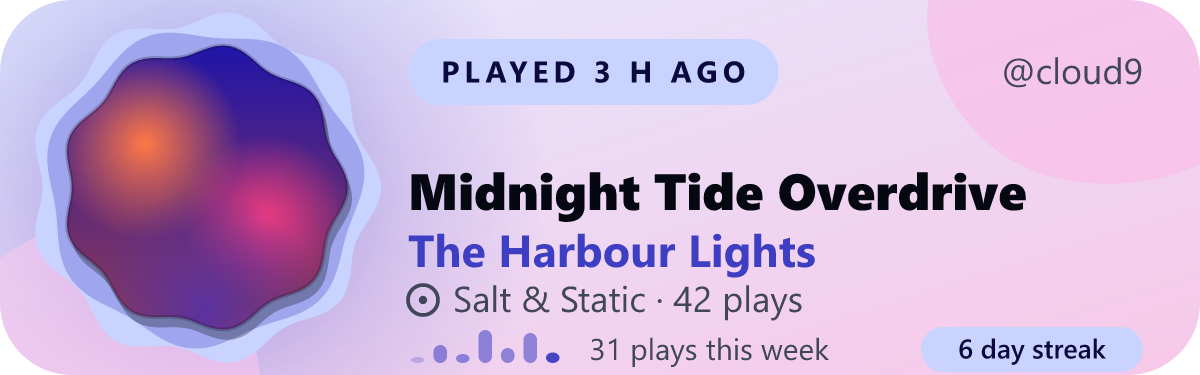
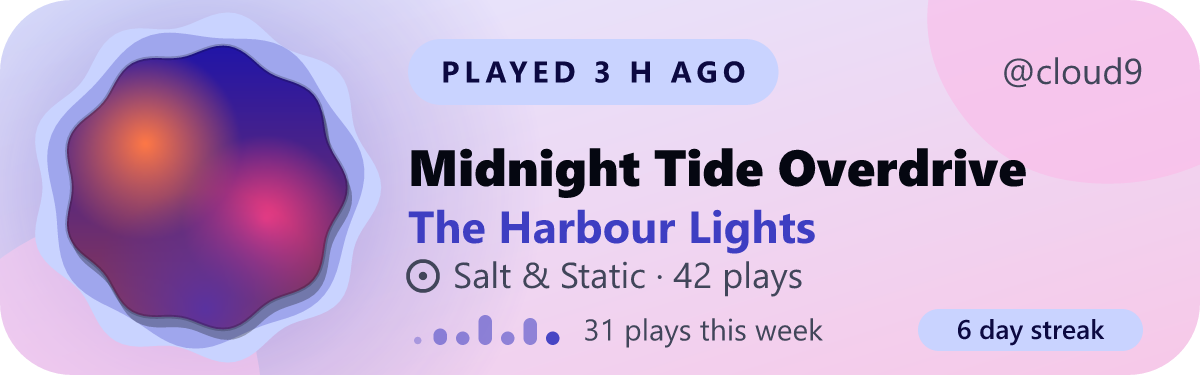
Give the week row on the idle card real margins and one centre line, and drop it when a two-line title leaves no room

Changed region(s): [[0.3392, 0.3813, 0.8633, 0.968], [0.74, 0.8213, 0.9558, 0.9973]]

diff --git a/src/render/expressive.ts b/src/render/expressive.ts
@@ -15,36 +15,43 @@ const WAVELENGTH = 44;
 
 const WEEK_BAR_W = 9;
 const WEEK_BAR_STEP = 15;
-const WEEK_BAR_MAX = 22;
-const WEEK_BASE_Y = 242;
+const WEEK_BAR_MAX = 20;
+/** The week row's centre line: the bars, the total and the chip are all centred on it. */
+const WEEK_CY = 220;
 
 /**
  * The idle card's last row: seven small bars (plays per day, today on the right and brightest), the week's total, and a chip
- * with the streak when it is two days or more. Sits below the album line, in the space the wave uses while playing.
+ * with the streak when it is two days or more. Sits below the album line, where the wave is while playing, and keeps the
+ * same margin to the card's edge as the top row.
  */
 function weekRow(week: NonNullable<CardData["week"]>): string {
   const peak = Math.max(...week.bars, 1);
+  const base = WEEK_CY + WEEK_BAR_MAX / 2;
   const bars = week.bars
     .map((n, i) => {
-      const h = n === 0 ? 4 : Math.max(6, Math.round((n / peak) * WEEK_BAR_MAX));
+      const x = COL_X + 2 + i * WEEK_BAR_STEP;
       const last = i === week.bars.length - 1;
-      return `<rect x="${COL_X + 2 + i * WEEK_BAR_STEP}" y="${WEEK_BASE_Y - h}" width="${WEEK_BAR_W}" height="${h}" rx="${WEEK_BAR_W / 2}" class="${fill("primary")}" opacity="${last ? ".95" : n === 0 ? ".25" : ".55"}"/>`;
+      // A day with no plays is a small dot; a day with plays is a bar, never shorter than a stub.
+      if (n === 0) return `<circle cx="${x + WEEK_BAR_W / 2}" cy="${base - 3}" r="2.5" class="${fill("primary")}" opacity=".35"/>`;
+      const h = Math.max(WEEK_BAR_W, Math.round((n / peak) * WEEK_BAR_MAX));
+      return `<rect x="${x}" y="${base - h}" width="${WEEK_BAR_W}" height="${h}" rx="${WEEK_BAR_W / 2}" class="${fill("primary")}" opacity="${last ? ".95" : ".55"}"/>`;
     })
     .join("");
-  const barsEnd = COL_X + 2 + 7 * WEEK_BAR_STEP;
+  const barsEnd = COL_X + 2 + 6 * WEEK_BAR_STEP + WEEK_BAR_W;
   const right = COL_X + COL_W;
   const text = `${week.total.toLocaleString("en-US")} ${week.total === 1 ? "play" : "plays"} this week`;
-  const textX = barsEnd + 14;
+  const textX = barsEnd + 16;
   // The streak chip is only drawn when the total fits beside it; a long total keeps the whole row instead.
   const streak = week.streak >= 2 ? `${week.streak} day streak` : "";
-  const chipW = streak ? Math.round(textEm(streak) * 18) + 30 : 0;
-  const chipFits = chipW > 0 && fit(text, right - textX - chipW - 14, 20) === text;
-  const label = fit(text, right - textX - (chipFits ? chipW + 14 : 0), 20);
+  const CHIP_H = 28;
+  const chipW = streak ? Math.round(textEm(streak) * 18) + 32 : 0;
+  const chipFits = chipW > 0 && fit(text, right - textX - chipW - 16, 20) === text;
+  const label = fit(text, right - textX - (chipFits ? chipW + 16 : 0), 20);
   const chip = chipFits
-    ? `<rect x="${right - chipW}" y="${WEEK_BASE_Y - 24}" width="${chipW}" height="30" rx="15" class="${fill("primaryContainer")}"/>` +
-      `<text x="${right - chipW / 2}" y="${WEEK_BASE_Y - 3}" text-anchor="middle" font-family="${SANS}" font-size="18" font-weight="600" class="${fill("onPrimaryContainer")}">${esc(streak)}</text>`
+    ? `<rect x="${right - chipW}" y="${WEEK_CY - CHIP_H / 2}" width="${chipW}" height="${CHIP_H}" rx="${CHIP_H / 2}" class="${fill("primaryContainer")}"/>` +
+      `<text x="${right - chipW / 2}" y="${WEEK_CY + 6}" text-anchor="middle" font-family="${SANS}" font-size="18" font-weight="600" class="${fill("onPrimaryContainer")}">${esc(streak)}</text>`
     : "";
-  return bars + `<text x="${textX}" y="${WEEK_BASE_Y - 2}" font-family="${SANS}" font-size="20" class="${fill("onVariant")}">${esc(label)}</text>` + chip;
+  return bars + `<text x="${textX}" y="${WEEK_CY + 7}" font-family="${SANS}" font-size="20" class="${fill("onVariant")}">${esc(label)}</text>` + chip;
 }
 
 /** Material 3 Expressive-style card: cookie-shaped cover, tonal blobs and a wavy line that flattens when idle. */
@@ -79,7 +86,9 @@ export function renderExpressive(d: CardData, palette: Palette, opts: CardOption
   const hasMeta = copy.meta !== "";
   // With no album line, centre the stack between the pill and the wave. With no wave (nothing playing), the stack
   // moves down a little so the space below it matches the space above the pill.
-  const drop = live ? 0 : 8;
+  // The week row needs the room a two-line title takes, so a long title keeps the card as it was.
+  const hasWeek = d.kind === "idle" && !!d.week && d.week.total > 0 && !two;
+  const drop = live ? 0 : hasWeek ? -8 : 8;
   const lift = (hasMeta ? 0 : 14) + drop;
   const titleYs = (two ? [104, 140] : [132]).map((y) => y + lift);
   const subY = (two ? 173 : 170) + lift;
@@ -111,7 +120,7 @@ export function renderExpressive(d: CardData, palette: Palette, opts: CardOption
   const handleRoom = COL_W - pillW - 20;
   const HANDLE_PX = [24, 22, 20].find((px) => textEm(handleText) * px <= handleRoom) ?? 0;
   const handle = handleText && HANDLE_PX ? esc(handleText) : "";
-  const week = d.kind === "idle" && d.week && d.week.total > 0 ? weekRow(d.week) : "";
+  const week = hasWeek && d.week ? weekRow(d.week) : "";
   const wave = liveWave(d, opts, { x0: COL_X, x1: COL_X + COL_W, y: 228, stroke: 7, amp: 6, wavelength: WAVELENGTH });
 
   const body =

diff --git a/test/render.test.ts b/test/render.test.ts
@@ -222,7 +222,8 @@ describe("the week on the idle card", () => {
     const { week: _demo, ...data } = demo;
     return renderCard({ ...data, ...(w ? { week: w } : {}) }, seed, { theme, mode: "dark", still: true });
   };
-  const bars = (svg: string) => svg.match(/<rect x="\d+" y="\d+" width="9" height="\d+"/g) ?? [];
+  // A day with plays is a bar (a 9 wide rect), a day with none is a small dot (a circle of radius 2.5).
+  const bars = (svg: string) => svg.match(/<rect x="\d+" y="\d+" width="9" height="\d+"|<circle cx="[\d.]+" cy="[\d.]+" r="2\.5"/g) ?? [];
 
   it("draws seven bars, the total and the streak under the album line", () => {
     const svg = card("idle", week());
@@ -231,13 +232,34 @@ describe("the week on the idle card", () => {
     expect(svg).toContain("6 day streak");
   });
 
-  it("makes the busiest day the tallest and a day with no plays a small dot, with today brightest", () => {
-    const heights = bars(card("idle", week())).map((b) => Number(b.match(/height="(\d+)"/)![1]));
-    expect(heights[0]).toBe(4); // no plays
-    expect(Math.max(...heights)).toBe(22);
-    expect(heights[3]).toBe(22); // the 9
+  it("makes the busiest day the tallest, a day with no plays a dot, and today the brightest", () => {
     const svg = card("idle", week());
+    const rects = [...svg.matchAll(/<rect x="\d+" y="(\d+)" width="9" height="(\d+)"/g)].map((m) => ({ y: Number(m[1]), h: Number(m[2]) }));
+    expect(rects).toHaveLength(6); // seven days, one of them with no plays
+    expect(svg).toContain('r="2.5"');
+    expect(Math.max(...rects.map((r) => r.h))).toBe(20);
+    expect(Math.min(...rects.map((r) => r.h))).toBeGreaterThanOrEqual(9); // never a sliver
+    expect(new Set(rects.map((r) => r.y + r.h)).size).toBe(1); // every bar stands on the same line
     expect(svg).toMatch(/class="f-primary" opacity="\.95"\/><text/); // the last bar, today
+  });
+
+  it("puts the bars, the total and the chip on one centre line, clear of the card's bottom corners", () => {
+    const svg = card("idle", week());
+    const chip = svg.match(/<rect x="(\d+)" y="(\d+)" width="(\d+)" height="28"/)!;
+    const x = Number(chip[1]);
+    const y = Number(chip[2]);
+    const w = Number(chip[3]);
+    expect(y + 14).toBe(220); // centred on the row's line
+    expect(y + 28).toBeLessThanOrEqual(250 - 14); // a clear margin below
+    expect(x + w).toBe(762); // right edge in line with the @handle
+    expect(svg).toMatch(/y="227"[^>]*>31 plays this week/);
+  });
+
+  it("is left out when the title takes two lines, which leaves no room for it", () => {
+    const { data: demo, seed } = demoCard("idle", now);
+    const long = renderCard({ ...demo, track: { ...demo.track!, title: "Midnight Tide Overdrive And The Long Way Home Again" } }, seed, { theme: "expressive", mode: "dark", still: true });
+    expect(long).not.toContain("this week");
+    expect(long).toContain("Long Way");
   });
 
   it("says 1 play for a week with one, and leaves the streak chip off below two days", () => {
@@ -265,8 +287,12 @@ describe("the week on the idle card", () => {
     expect(card("idle", week(), "terminal")).not.toContain("this week");
   });
 
-  it("changes nothing else about the card", () => {
-    const strip = (s: string) => s.replace(/<rect x="\d+" y="\d+" width="9"[^>]*\/>/g, "").replace(/<text[^>]*>31 plays this week<\/text>/, "").replace(/<rect[^>]*rx="15"[^>]*\/><text[^>]*>6 day streak<\/text>/, "");
-    expect(strip(card("idle", week()))).toBe(card("idle", undefined));
+  it("adds only the week to the card: the same words, cover and pill, with the text block moved up to make room", () => {
+    const words = (svg: string) => [...svg.matchAll(/>([^<>]+)<\/text>/g)].map((m) => m[1]);
+    const withWeek = words(card("idle", week()));
+    const without = words(card("idle", undefined));
+    expect(withWeek.filter((w) => !/this week|day streak/.test(w!))).toEqual(without);
+    const image = (svg: string) => svg.match(/<image[^>]*>/)?.[0];
+    expect(image(card("idle", week()))).toBe(image(card("idle", undefined)));
   });
 });

diff --git a/CHANGELOG.md b/CHANGELOG.md
@@ -15,7 +15,8 @@ The format follows [Keep a Changelog](https://keepachangelog.com), and the versi
   The presence object works it out in the background, at most once an hour and only while nothing plays: one Last.fm call for each
   day it has not seen (days that are over are kept), then only today and yesterday, so card requests cost nothing extra. Days
   are your own: set `TIMEZONE` in `wrangler.toml` to an IANA name such as `Asia/Kolkata` (UTC when left out). A week with no plays
-  draws nothing, a long total keeps the whole line and drops the streak chip, and the other themes are unchanged.
+  draws nothing, a long total keeps the whole line and drops the streak chip, a title that needs two lines leaves the row out for
+  lack of room, and the other themes are unchanged.
 - The website's snippet generator has a **When the card is clicked** choice: your Last.fm profile (as before, and still the
   default), the song on Last.fm, a search for it on Spotify, YouTube Music or Apple Music, or nothing. The song choices use `/api/go`.
 - The card of a song that is not playing says how often you have played it, after the album: "Salt & Static · 42 plays". It comes
